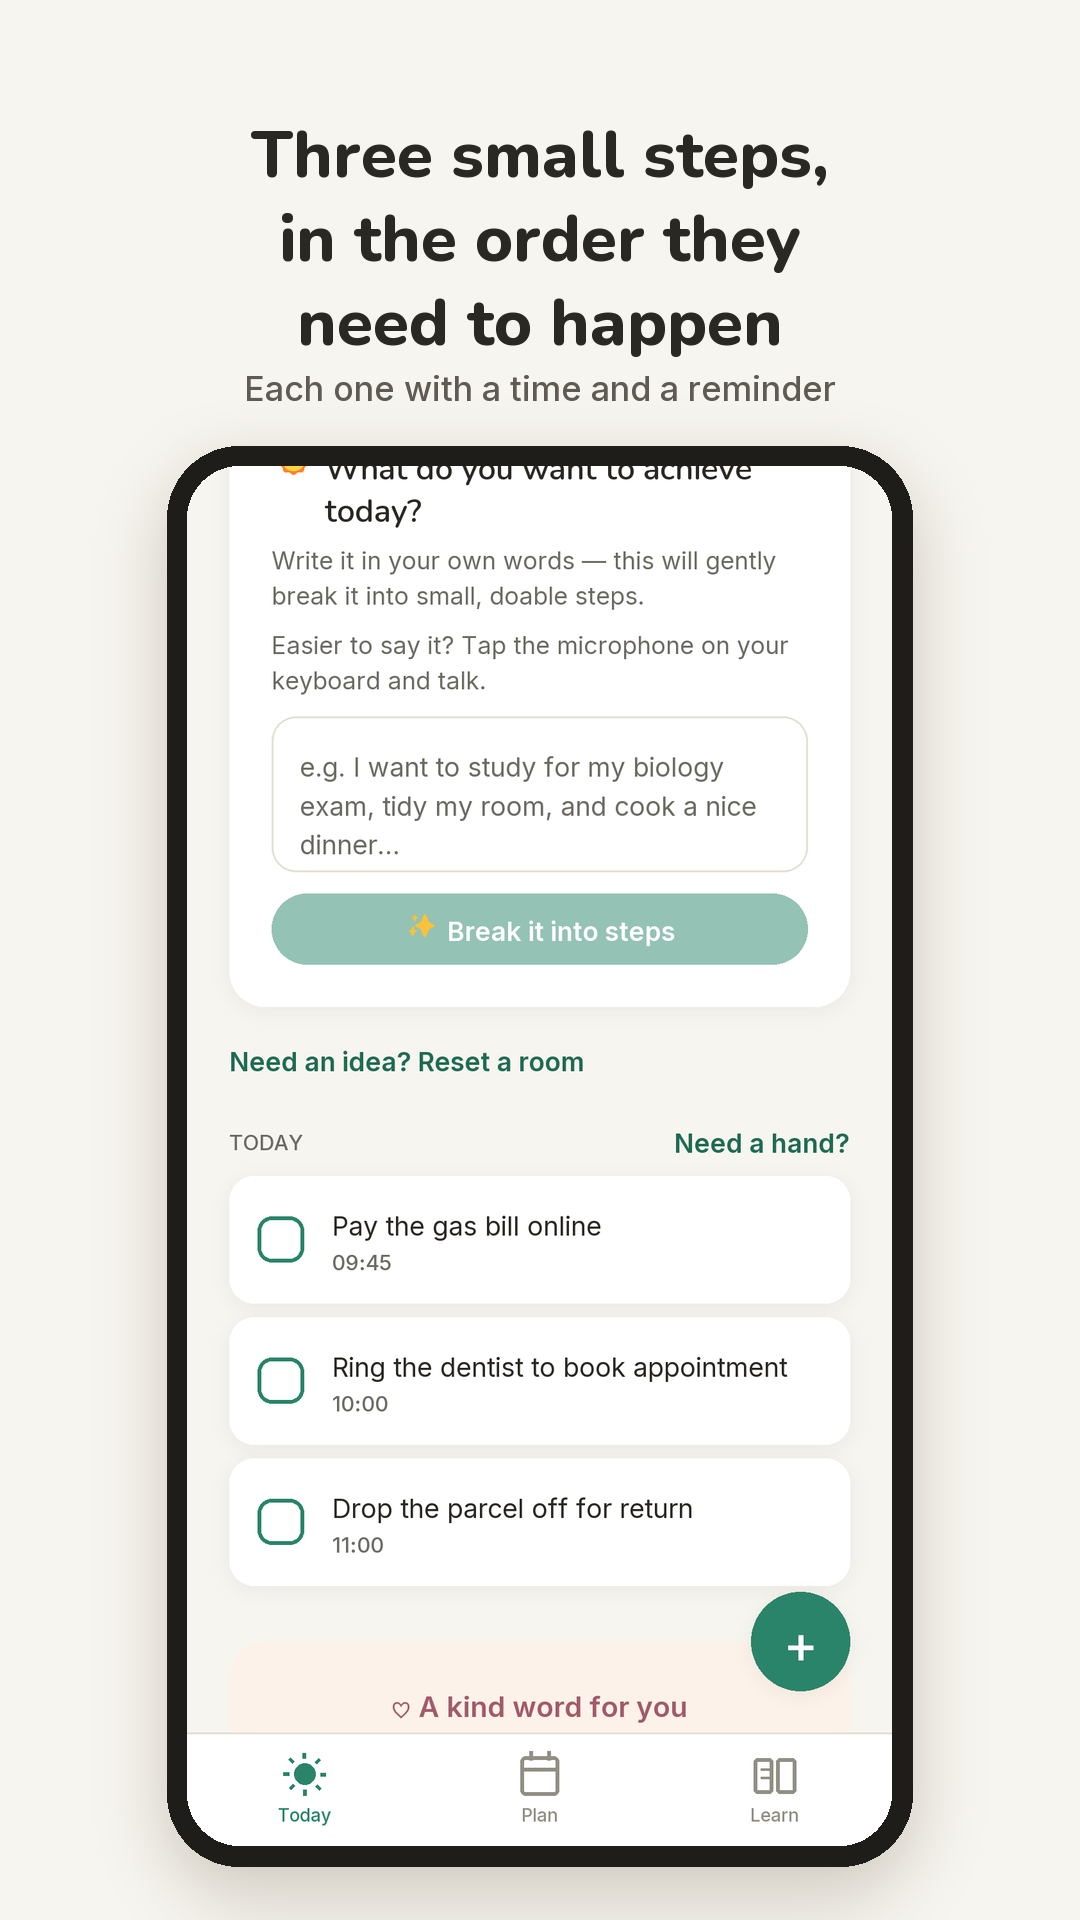
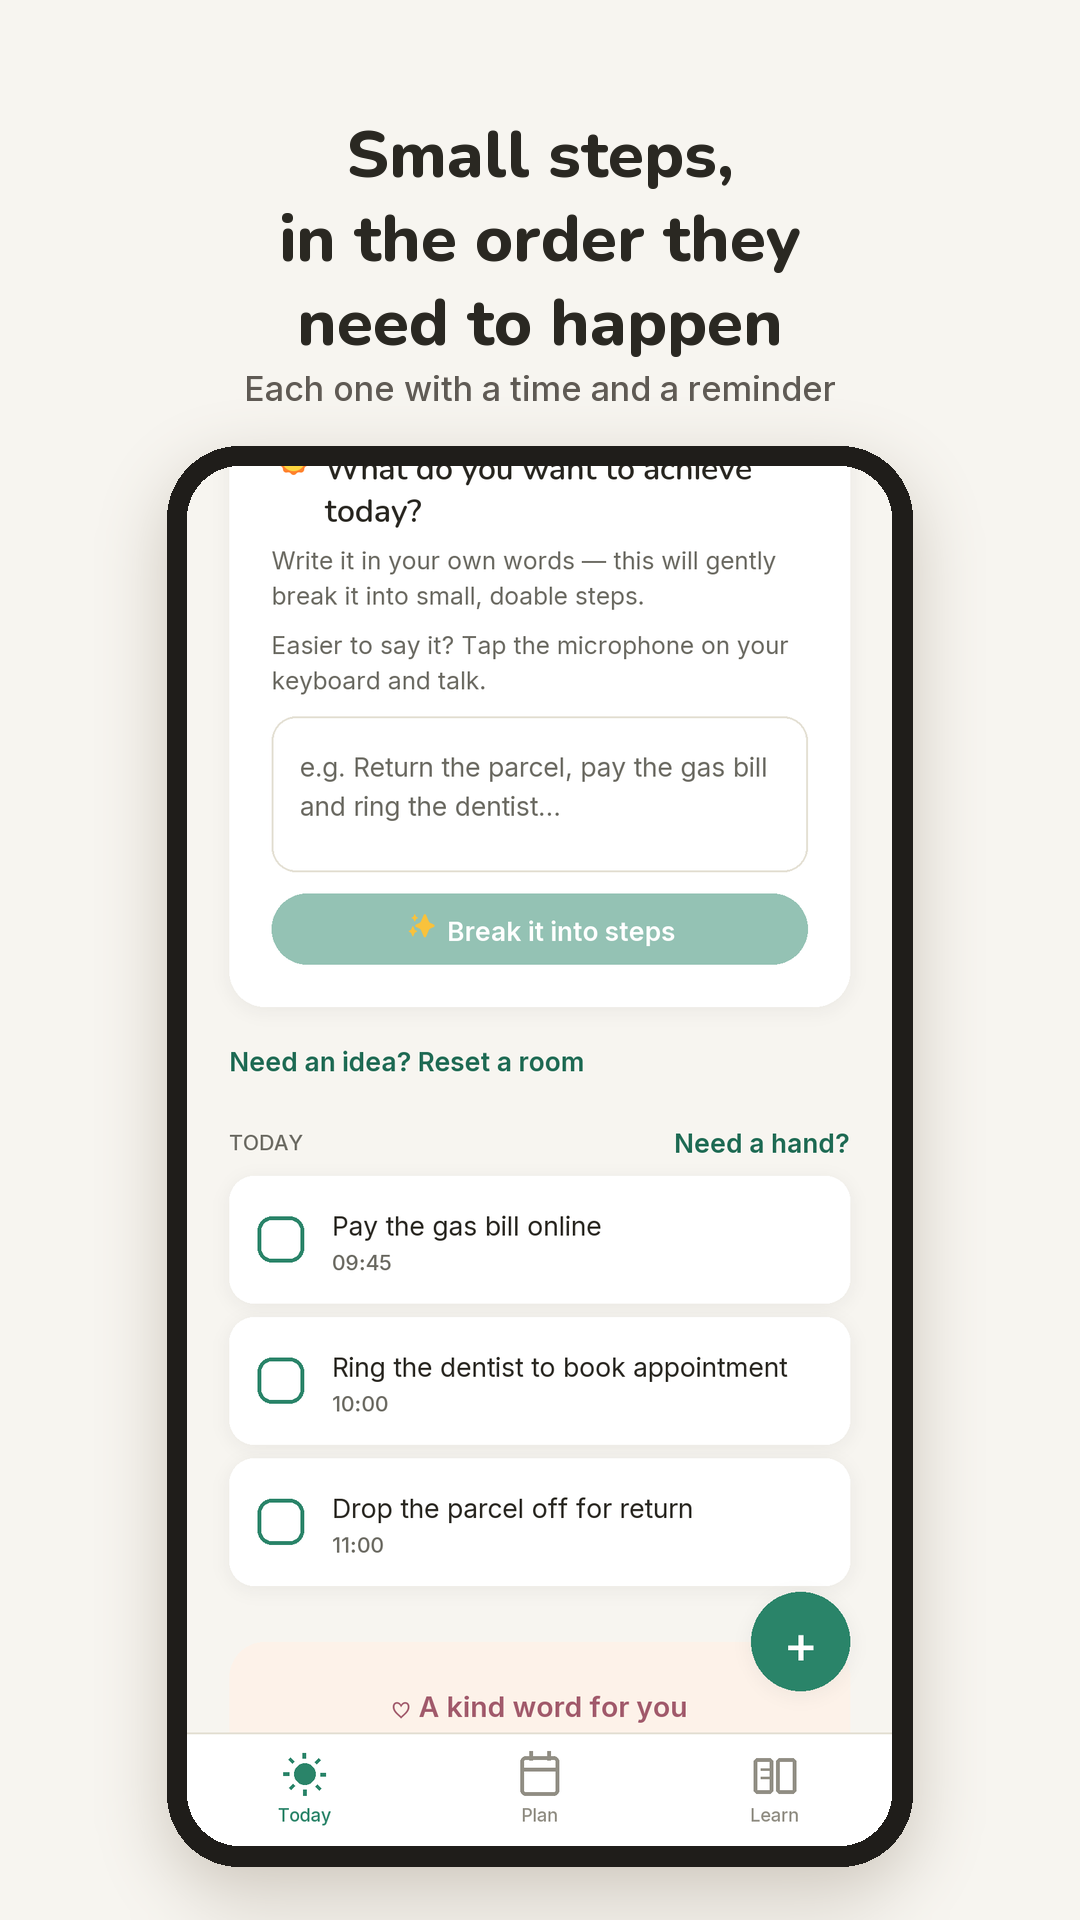
A short guide for staff and students (guide.html), linked from the home page; the home page no longer names a number of steps; screenshots 01 and 02 redrawn with the same wording
Published on George's "Do staff guide" (4 Nov 2026). The guide is the 4 Nov draft (outreach/drafts/staff-guide-2026-11-04.md in the app repo), marketing-judged, disability-reviewed and verified claim by claim; both M1 markers resolve to "small steps" after George's decision of 4 Nov that no outward text names a number of steps (improvements.md item 105). The home page's meta description, og:description, lede and first card lose "at most three"; a "For staff and students" line and a footer link point at the guide. "For adults, 18+" (item 95) and "the app screens are the real app" (item 91) are deliberately unchanged: both are George's open decisions. 01-steps.png and 02-goal.png are redrawn by render-store-shots.py with the new captions; 03 and 04 are byte-identical to before.

Changed region(s): [[0.275, 0.375, 0.7028, 0.4688], [0.2444, 0.0625, 0.7639, 0.0938]]

diff --git a/guide.html b/guide.html
@@ -1,0 +1,118 @@
+<!doctype html>
+<html lang="en-GB">
+<head>
+<meta charset="utf-8">
+<meta name="viewport" content="width=device-width, initial-scale=1">
+<title>Gentle Steps: a short guide</title>
+<style>
+  :root { color-scheme: light; }
+  body {
+    max-width: 42rem; margin: 0 auto; padding: 2rem 1.25rem 5rem;
+    background: #F7F5F0; color: #2A2822;
+    font: 16px/1.6 -apple-system, BlinkMacSystemFont, "Segoe UI", Roboto, sans-serif;
+  }
+  h1 { font-size: 1.6rem; margin-bottom: 0.25rem; }
+  h2 { font-size: 1.15rem; margin-top: 2.25rem; }
+  .updated { color: #716F67; font-size: 0.9rem; margin-top: 0; }
+  table { border-collapse: collapse; width: 100%; margin: 1rem 0; }
+  th, td { text-align: left; padding: 0.5rem 0.6rem; border-bottom: 1px solid #E4E0D4; vertical-align: top; }
+  th { font-size: 0.85rem; text-transform: uppercase; letter-spacing: 0.04em; color: #716F67; }
+  code { background: #EFEDE6; padding: 0.1rem 0.3rem; border-radius: 4px; font-size: 0.9em; }
+  .callout { background: #EFEDE6; border-radius: 10px; padding: 1rem 1.1rem; margin: 1.5rem 0; }
+  a { color: #1F6B54; }
+  hr { border: 0; border-top: 1px solid #E4E0D4; margin: 3rem 0 1.25rem; }
+  .pagelinks { font-size: 0.9rem; color: #716F67; }
+</style>
+</head>
+<body>
+
+<h1>Gentle Steps: a short guide</h1>
+<p class="updated">Last updated: 4 November 2026</p>
+
+<h2>What it is for</h2>
+
+<p>You know what you need to do. Starting is the hard part.</p>
+
+<p>Gentle Steps is an Android app for that moment. It was built with ADHD, autism and dyslexia in mind. It does not need a diagnosis, and it asks for none.</p>
+
+<p>It is free, with a short advert before each set of steps. A paid plan removes the advert. It is Android only.</p>
+
+<p><a href="https://play.google.com/store/apps/details?id=com.gentlestepsapp.android&amp;utm_source=site&amp;utm_campaign=guide">Get it on Google Play</a></p>
+
+<h2>What happens when you write a task</h2>
+
+<p>You write what you need to do, in your own words. For example: "make bread, go to the shops for the ingredients, do some studying".</p>
+
+<p>An AI model turns it into small steps, in order.</p>
+
+<p>Most steps get a time.</p>
+
+<p>The AI can be wrong. Treat the steps as a place to start, not as instructions. You can add, change and delete tasks yourself, on any day, in the Plan tab.</p>
+
+<h2>The reminder and the gentle check</h2>
+
+<p>Each step with a time gets a real notification on your phone. A few minutes later, a quiet follow-up asks whether you have started. You choose how long it waits, or turn it off.</p>
+
+<p>If now is not the moment, you can push the step back from the notification.</p>
+
+<p>On a hard day, tap "Need a hand?". It keeps one step and moves the rest to tomorrow.</p>
+
+<p>The list opens without a signal. Adding or changing a step needs a connection.</p>
+
+<h2>What it will not do</h2>
+
+<p>It has no streaks, no scores and no percentages. If you skip a day, the next morning offers yesterday's unfinished steps back once. You can take them on or let them go. Nothing is counted.</p>
+
+<p>It does not connect to Outlook or Google Calendar.</p>
+
+<p>It is a planning app, not a treatment or medical advice. It is not a crisis service. If things feel hard, your university or college wellbeing service or your doctor can help.</p>
+
+<h2>Reading settings</h2>
+
+<p>You can change the typeface and the background at any time. They are free, and always will be.</p>
+
+<ul>
+  <li><strong>Atkinson Hyperlegible</strong> was drawn to tell apart letters that get mixed up, such as b, d, p and q. It is a design claim, not a treatment.</li>
+  <li><strong>OpenDyslexic</strong> is offered for comfort. Careful studies have not found that it improves reading.</li>
+  <li><strong>Warm</strong> is an amber tint for a lit room: softer than a cold white screen, which is the part of the eye-strain advice that holds up. It is not about blue light.</li>
+  <li><strong>Blue</strong> is offered for comfort. There is little good independent evidence that it helps reading.</li>
+  <li><strong>Night</strong> is a dark background, for low light.</li>
+</ul>
+
+<h2>Your data</h2>
+
+<ul>
+  <li>What you type is sent to Anthropic, the company that makes the AI model, so the steps can be made. Anthropic does not use it to train its models. Your email address is not sent.</li>
+  <li>A short video advert from Google pays for the free steps. Google never receives what you type.</li>
+  <li>Nothing is sold.</li>
+  <li>Deleting: to delete your account, email us from the address you signed up with. It is done within 30 days. You can delete single tasks in the app yourself.</li>
+</ul>
+
+<p>The <a href="privacy.html">privacy policy</a>, the <a href="terms.html">Terms</a> and <a href="delete-account.html">account deletion</a> have the full detail. The <a href="evidence.html">evidence page</a> rates the research behind each Learn tab strategy, weak evidence included.</p>
+
+<h2>For staff</h2>
+
+<p>To suggest it, send the Google Play link above. You could say: "A free Android app that turns a task into small steps, with reminders. It is not a treatment. It is one thing to try."</p>
+
+<ul>
+  <li>Gentle Steps sits beside the support your institution already gives. It does not replace it.</li>
+  <li>The app has no way to share a list.</li>
+  <li>Sign-up is an email address and a password. The app never asks about a condition.</li>
+  <li>The <a href="accessibility.html">accessibility statement</a> says what has been checked and what has not: it is self-assessed, with no independent audit yet and no testing by screen reader users.</li>
+</ul>
+
+<h2>Questions</h2>
+
+<p>Email <a href="mailto:gentlestepsapp@gmail.com">gentlestepsapp@gmail.com</a>. You get a reply from a person. For a group arrangement or a fuller assessment, say so. If something is hard to use, say what you were trying to do.</p>
+
+<hr>
+
+<p class="pagelinks">
+  <a href="./">Home</a> &middot;
+  <a href="privacy.html">Privacy policy</a> &middot;
+  <a href="terms.html">Terms</a> &middot;
+  <a href="delete-account.html">Delete your account</a>
+</p>
+
+</body>
+</html>

diff --git a/index.html b/index.html
@@ -4,9 +4,9 @@
 <meta charset="utf-8">
 <meta name="viewport" content="width=device-width, initial-scale=1">
 <title>Gentle Steps — an ADHD planner that works out the order</title>
-<meta name="description" content="Write what you need to do, in your own words. Gentle Steps turns it into at most three small steps, in the order they need to happen, each with a reminder that checks back. Free on Android.">
+<meta name="description" content="Write what you need to do, in your own words. Gentle Steps turns it into small steps, in the order they need to happen, each with a reminder that checks back. Free on Android.">
 <meta property="og:title" content="Gentle Steps: ADHD Planner">
-<meta property="og:description" content="Write it in your own words. Get three small steps, in order, each with a reminder that checks back. Free on Android.">
+<meta property="og:description" content="Write it in your own words. Get small steps, in order, each with a reminder that checks back. Free on Android.">
 <meta property="og:image" content="https://gentlestepsapp.github.io/gentlesteps-privacy/media/poster.jpg">
 <meta property="og:type" content="website">
 <link rel="icon" href="store/play-icon-512.png">
@@ -56,9 +56,9 @@
 <h1>You already know what needs doing.<br>Starting is the hard part.</h1>
 
 <p class="lede">
-  Write it in your own words. Gentle Steps turns it into at most three small
-  steps, in the order they need to happen, each with a reminder that checks
-  back a few minutes later: <em>have you started?</em>
+  Write it in your own words. Gentle Steps turns it into small steps, in the
+  order they need to happen, each with a reminder that checks back a few
+  minutes later: <em>have you started?</em>
 </p>
 
 <p>
@@ -77,8 +77,8 @@
 
 <div class="three">
   <div class="card">
-    <h3>Three steps, in order</h3>
-    <p>Type what you want done. It comes back as small steps, at most three, in the order they actually need to happen, each with a time.</p>
+    <h3>Small steps, in order</h3>
+    <p>Type what you want done. It comes back as small steps, in the order they actually need to happen, each with a time.</p>
   </div>
   <div class="card">
     <h3>A reminder that checks back</h3>
@@ -89,6 +89,8 @@
     <p>No streaks to break, no completion percentages, no points. On a hard day, tap <em>Need a hand?</em> to keep one step and move the rest to tomorrow.</p>
   </div>
 </div>
+
+<p class="small">For staff and students: <a href="guide.html">a short guide</a> to what the app does and what it will not do.</p>
 
 <div class="callout">
   The tips in the app's Learn tab each say plainly how strong the research
@@ -129,6 +131,7 @@
 <hr>
 
 <p class="pagelinks">
+  <a href="guide.html">A short guide</a> &middot;
   <a href="privacy.html">Privacy policy</a> &middot;
   <a href="terms.html">Terms</a> &middot;
   <a href="accessibility.html">Accessibility statement</a> &middot;
